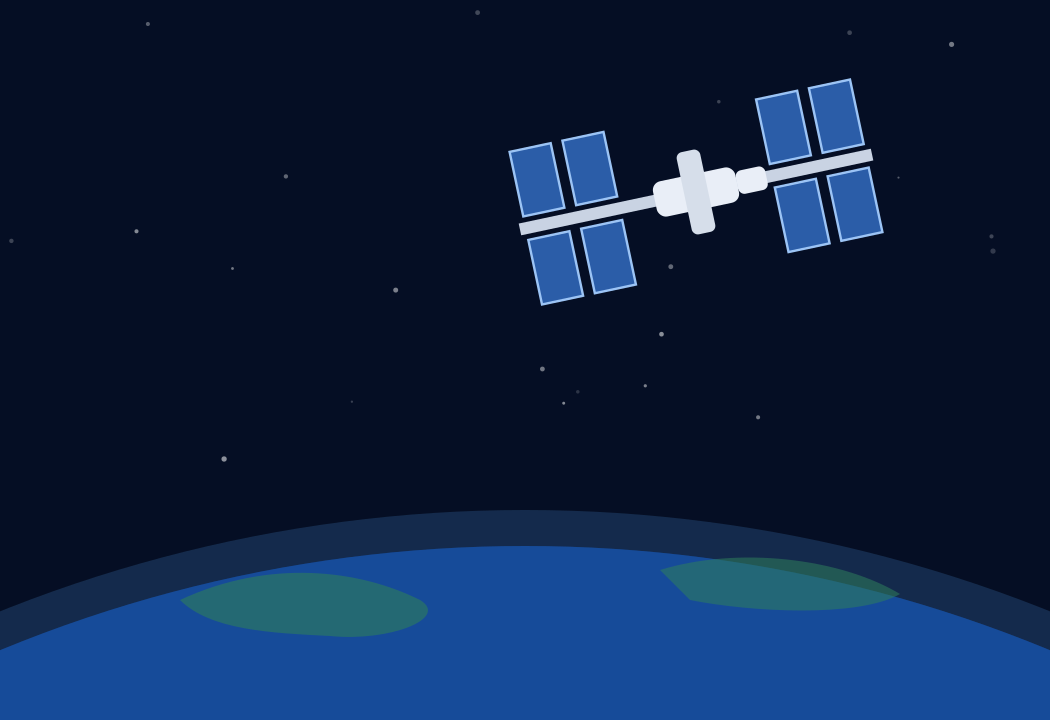
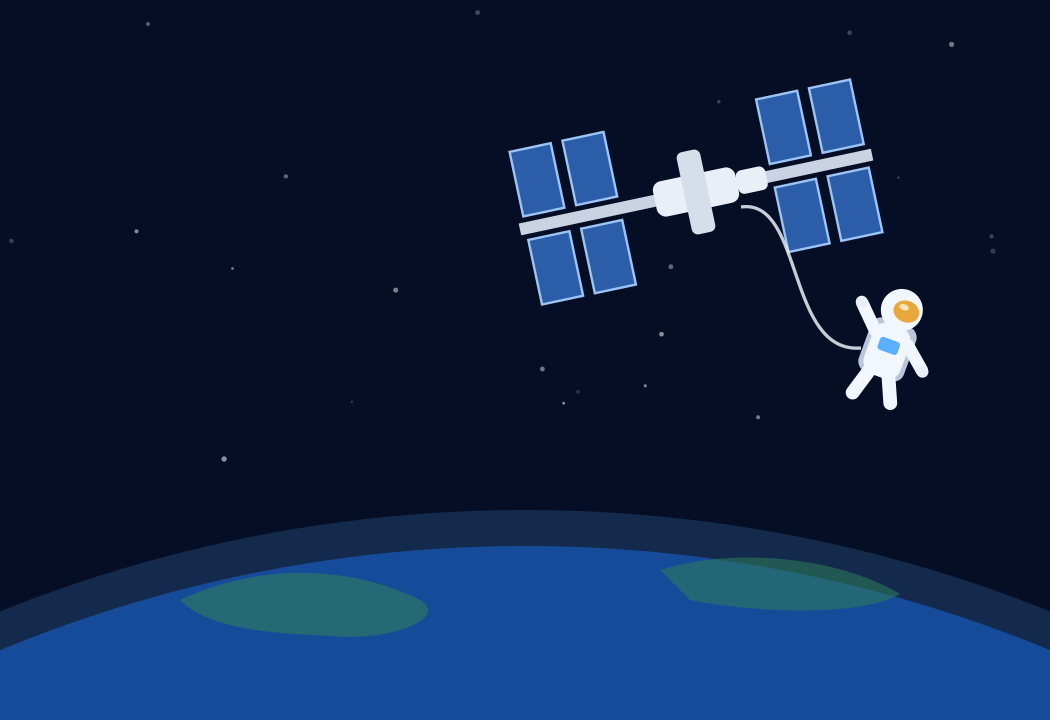
In Space: astronaut illustration, system font for headcount

Changed region(s): [[0.7619, 0.3972, 0.8838, 0.5806], [0.7314, 0.3056, 0.7619, 0.3972], [0.701, 0.275, 0.7314, 0.3056]]

diff --git a/src/app/space.tsx b/src/app/space.tsx
@@ -132,7 +132,7 @@ const styles = StyleSheet.create({
   fill: { position: 'absolute', top: 0, left: 0, width: '100%', height: '100%' },
   hero: { height: 200, borderRadius: 20, overflow: 'hidden', borderWidth: 1, borderColor: C.line, backgroundColor: '#050E24' },
   heroText: { position: 'absolute', left: 18, top: 16 },
-  count: { fontFamily: F.display, fontSize: 72, lineHeight: 76, color: C.text, fontVariant: ['tabular-nums'] },
+  count: { fontSize: 72, lineHeight: 80, fontWeight: '700', color: C.text, fontVariant: ['tabular-nums'] },
   countLabel: { fontSize: 15, color: '#CFE3FF' },
   tally: { position: 'absolute', left: 18, bottom: 14, flexDirection: 'row', gap: 6 },
   tallyChip: { flexDirection: 'row', alignItems: 'center', gap: 5, paddingLeft: 4, paddingRight: 8, paddingVertical: 3, borderRadius: 999, borderWidth: 1, borderColor: C.line, backgroundColor: 'rgba(6,18,43,0.8)' },
